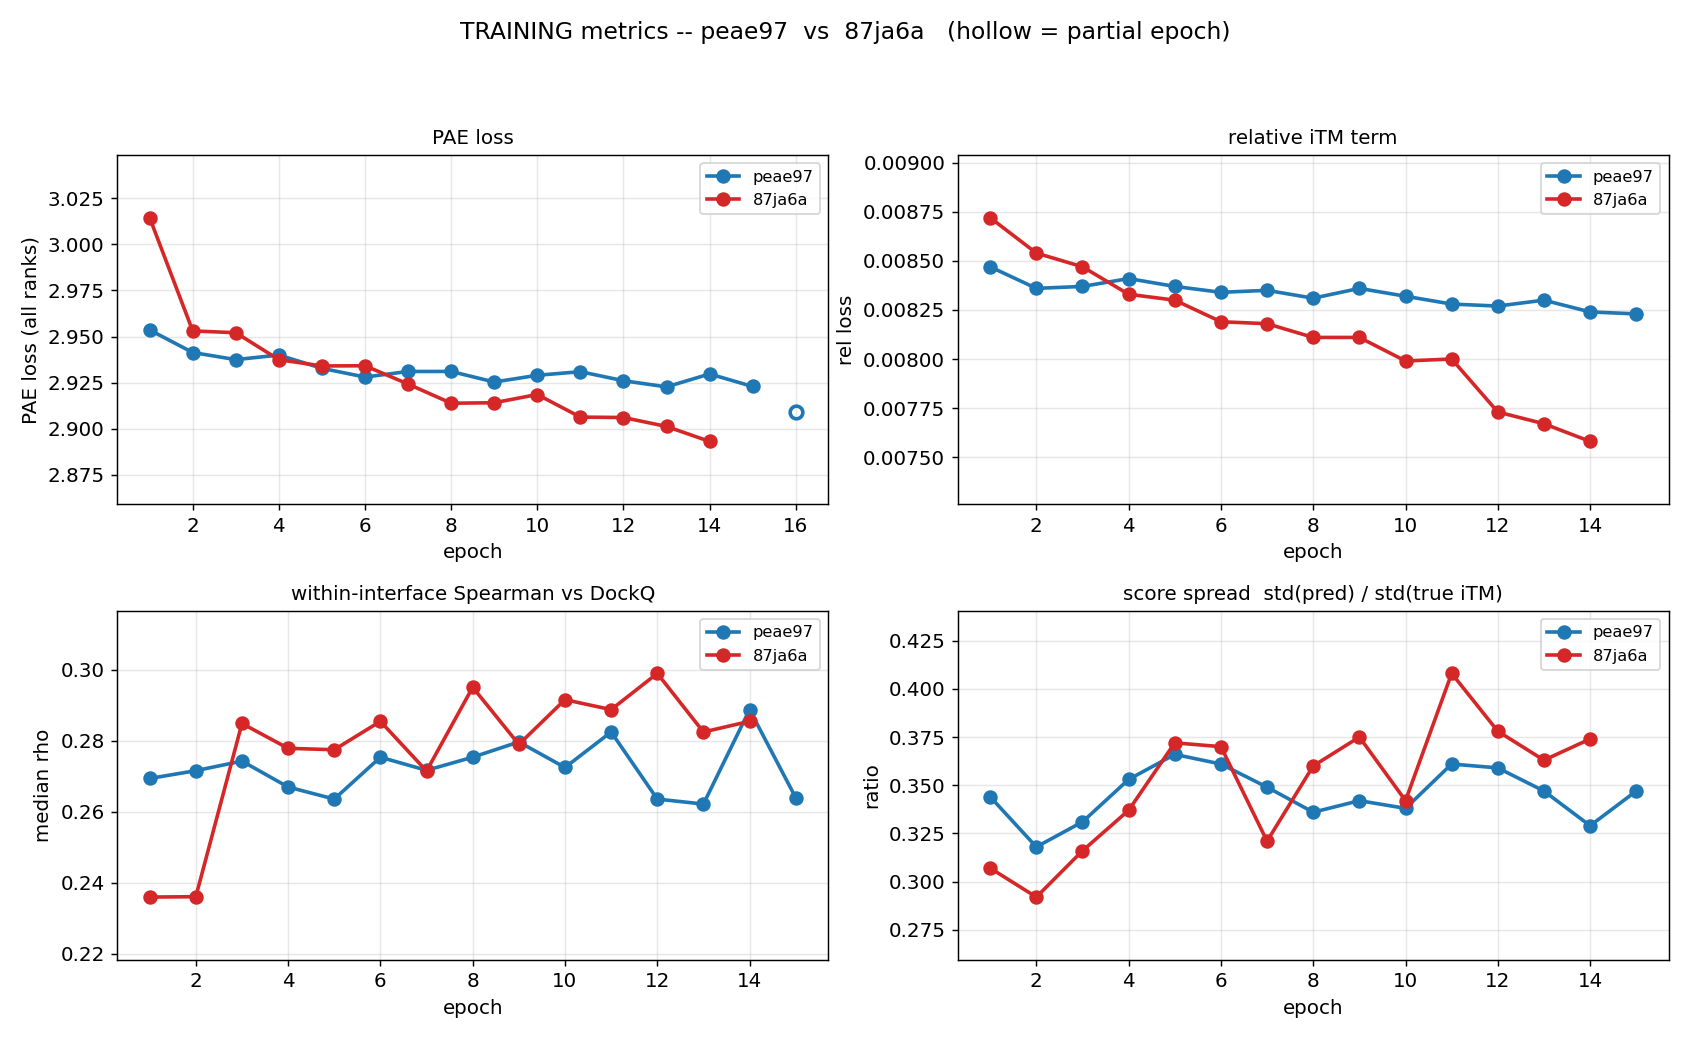
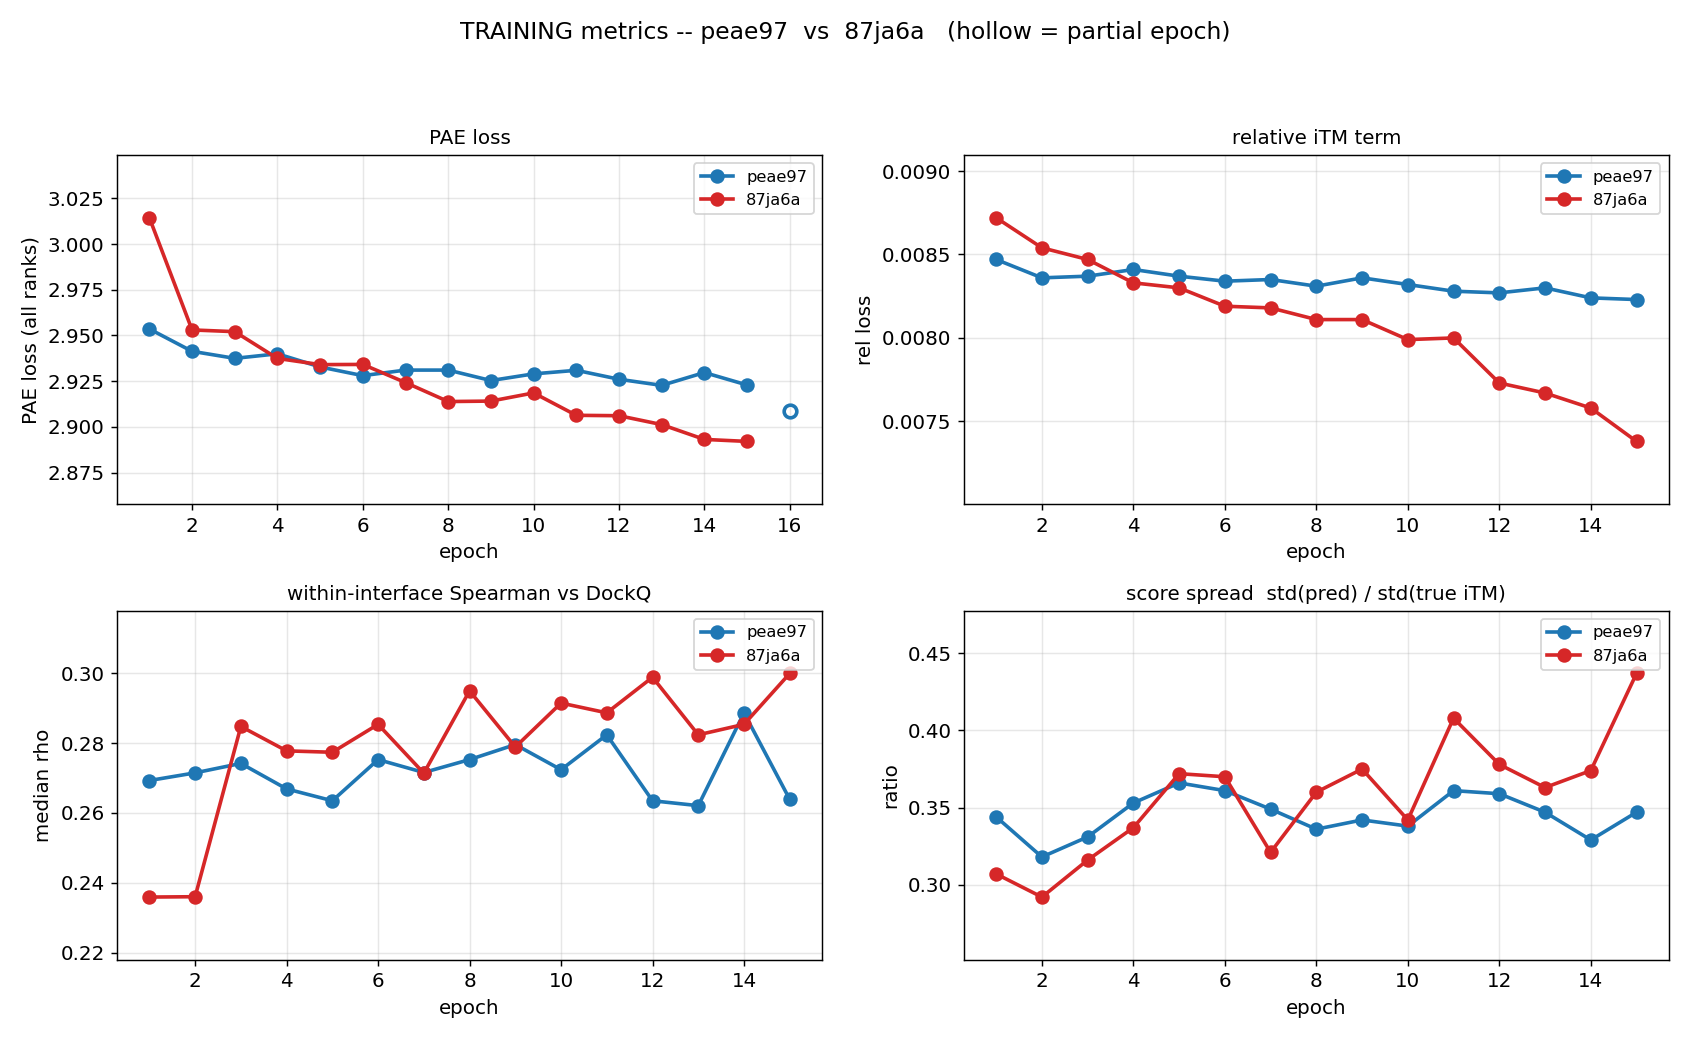
87ja6a epoch 15: plots and held-out numbers
Pushed automatically at the epoch boundary. Figures and metric json only -- no checkpoints,
no run log, no trajectories.

Claude-Session: https://claude.ai/code/session_014t55QPNWnMkjqFi95YVBtG

diff --git a/extra_training/RESULTS.md b/extra_training/RESULTS.md
@@ -22,6 +22,7 @@ Regenerated at each epoch boundary. Checkpoints, run logs and trajectories are n
 | 12 | 2.9061 | 0.0077 | 0.2989 | 0.3780 |
 | 13 | 2.9013 | 0.0077 | 0.2824 | 0.3630 |
 | 14 | 2.8931 | 0.0076 | 0.2854 | 0.3740 |
+| 15 | 2.8921 | 0.0074 | 0.3000 | 0.4370 |
 
 ## Held out — 83 structures / 141 interfaces, budget 30
 
@@ -29,6 +30,7 @@ Regenerated at each epoch boundary. Checkpoints, run logs and trajectories are n
 |---|---|---|---|---|---|
 | shipped | 0.5735 | 0.5813 | 0.7163 | — | 0.1515 |
 | epoch 10 | 0.5864 | 0.5836 | 0.7305 | 0.1728 | 0.1720 |
+| epoch 15 | 0.5828 | 0.5858 | 0.7092 | 0.1746 | 0.1644 |
 | epoch 5 | 0.5868 | 0.5807 | 0.7305 | 0.1628 | 0.1623 |
 
 ![training](figures/87ja6a_train.png)
